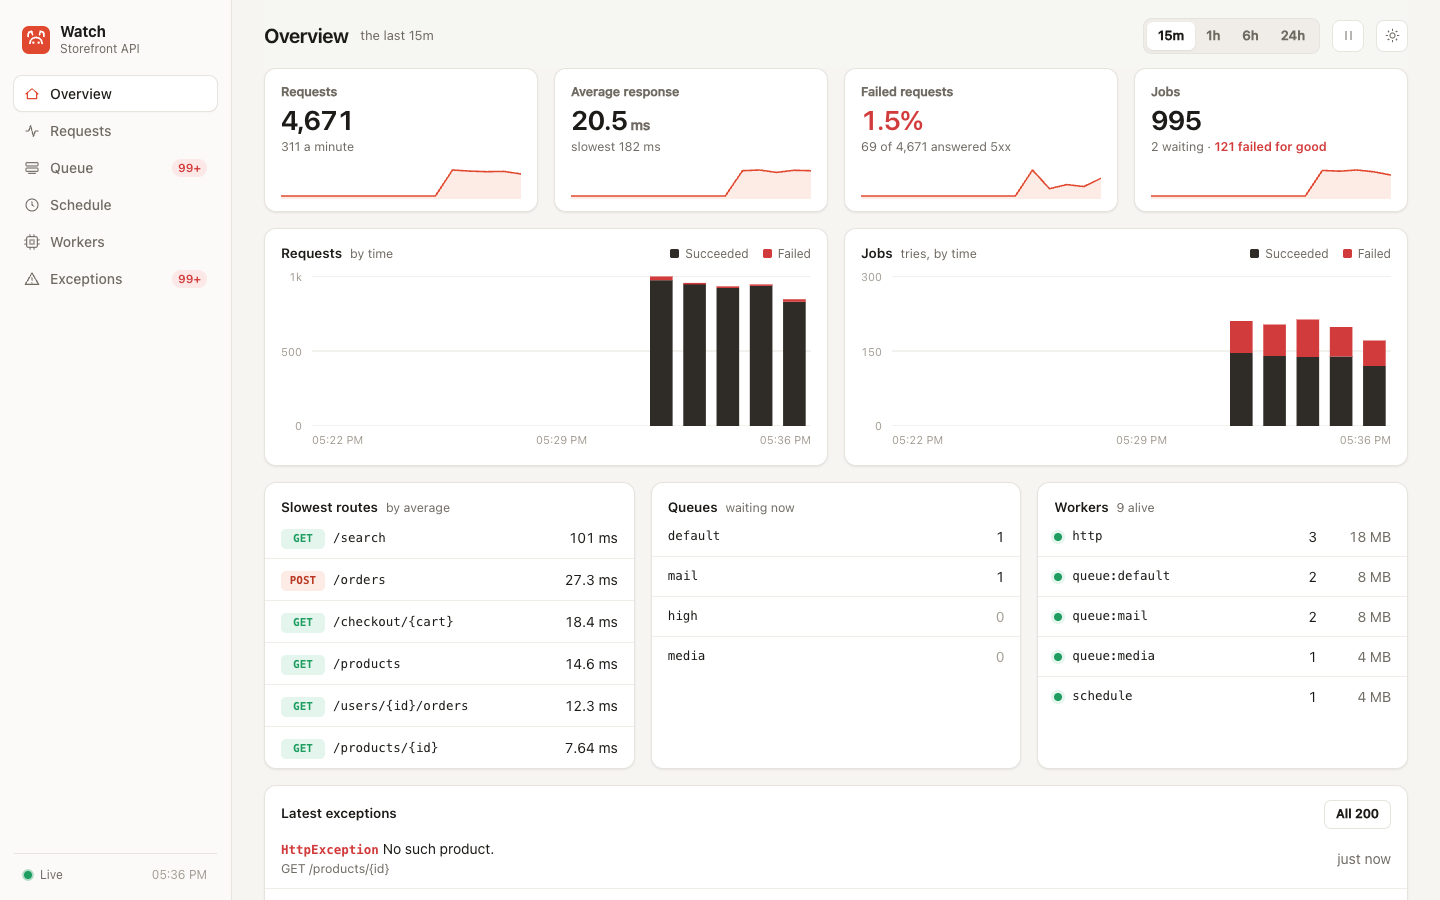
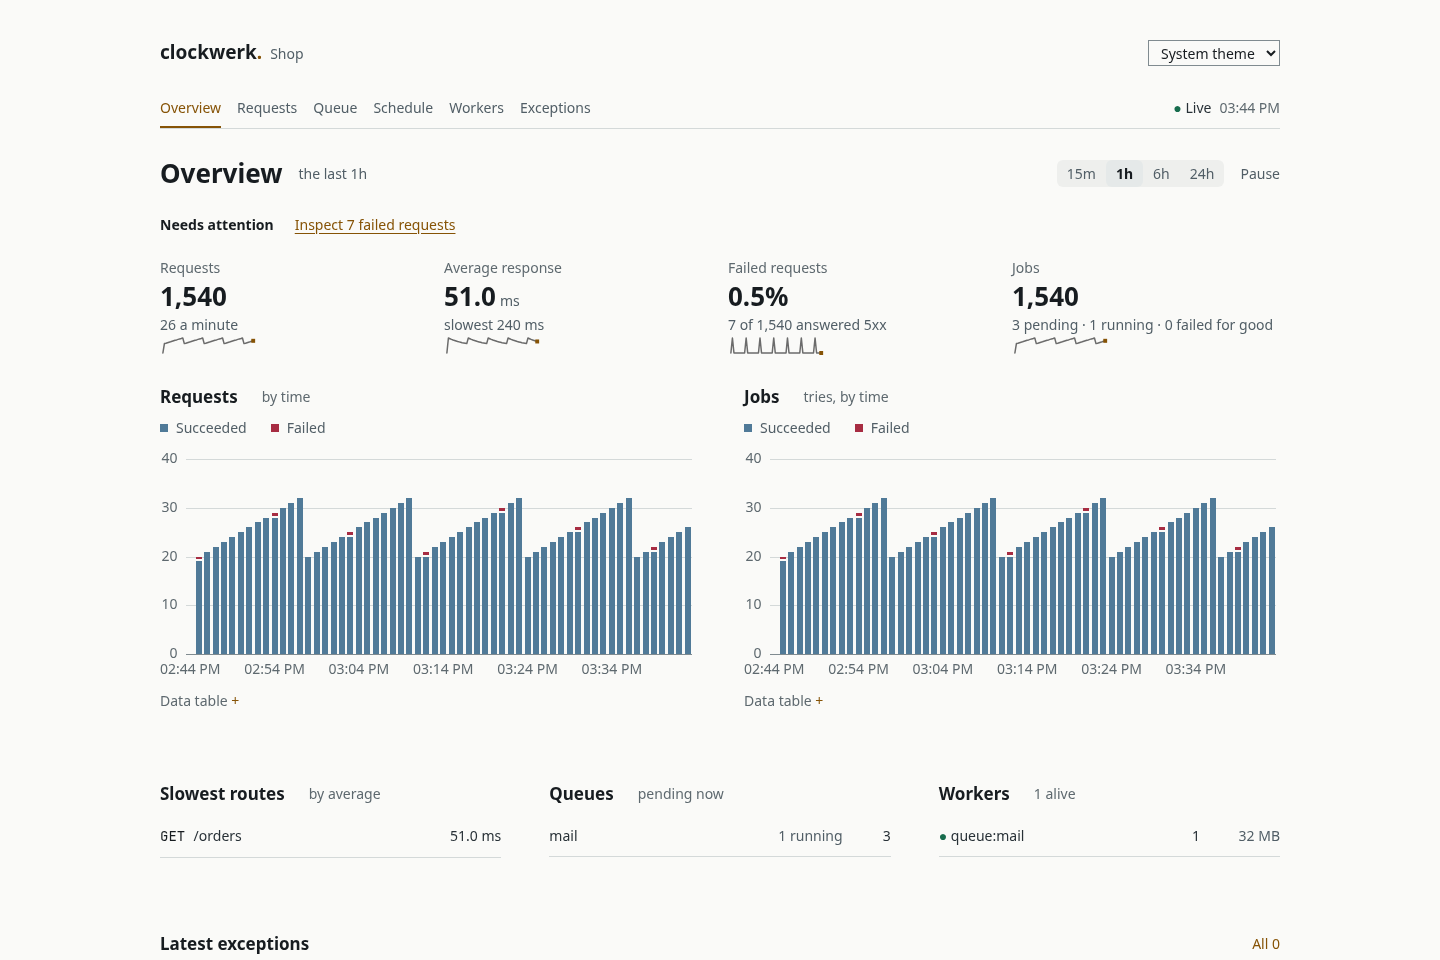
Center the dashboard and surface actionable failures in light and dark themes

diff --git a/resources/dashboard.html b/resources/dashboard.html
@@ -911,6 +911,34 @@ tr.detail pre { margin: 0; white-space: pre-wrap; overflow-wrap: anywhere; }
   .dashboard-panel > .toolbar .panel-actions { margin-left: 0; width: 100%; }
   tr.detail pre { margin-inline: 0; padding-inline: 1ch; }
 }
+/* Clockwerk's workspace: navigation above the data, one centered reading axis. */
+:root { --font: system-ui, sans-serif; --size: 14px; --chart-1: #729bbb; --chart-2: var(--danger); }
+:root[data-theme="light"] {
+  color-scheme: light; --bg: #fafaf8; --strong: #171c20; --text: #283137; --muted: #515e66; --faint: #5e696f;
+  --surface: #eeefed; --surface-hover: #e5e9e9; --line: #d4d9d9; --line-strong: #808b90; --amber: #865306;
+  --ok: #176c4d; --warn: #875313; --danger: #a72c42; --info: #286085; --chart-1: #507a98;
+}
+.shell.wide { display: block; max-width: var(--wide); }
+.site-header { align-items: center; margin-bottom: var(--lh); }
+.wordmark { font-size: 19px; } .wordmark small { font-size: 14px; }
+h1,h2 { text-transform: none; } h1 { font-size: 26px; line-height: 1.25; } h2 { font-size: 17px; }
+h1::before,h2::before,button::before,button::after,.button::before,.button::after { content: none; }
+code,pre,.method { font-family: 'JetBrains Mono', monospace; }
+.dashboard-nav { display: flex; flex-wrap: wrap; align-items: center; justify-content: space-between; gap: 0 2ch; margin-bottom: 28px; border-bottom: 1px solid var(--line); }
+.dashboard-nav ul { display: flex; flex-wrap: wrap; gap: 0 2ch; list-style: none; margin: 0; padding: 0; }
+.dashboard-nav a { padding-block: 10px; } .dashboard-nav a[aria-current] { box-shadow: inset 0 -2px var(--amber); }
+.dashboard-nav.nav-list a[aria-current] > :first-child::before { content: none; }
+.dashboard-nav .live { margin: 0; } .dashboard-top { margin-bottom: 24px; }
+.segmented { gap: 0; background: var(--surface); border-radius: 6px; }
+.segmented button { padding-inline: 10px; border-radius: inherit; } .segmented button[aria-pressed=true] { background: var(--surface-hover); color: var(--strong); }
+.dashboard-stats { display: grid; grid-template-columns: repeat(4,minmax(0,1fr)); gap: 16px; }
+.dashboard-stats .stat { min-width: 0; padding: 0; margin: 0; border: 0; } .stat dd { font-size: 26px; line-height: 1.4; font-variant-numeric: tabular-nums; } .stat dd small { font-size: 14px; }
+.section { margin-top: 30px; } .dashboard-panel .toolbar { margin-bottom: 10px; }
+th,td { border-width: 0 0 1px; } .error-count { color: var(--danger); }
+@media (min-width: 960px) { .queue-capacity:has(> :nth-child(2)) { grid-template-columns: minmax(0, 2.5fr) minmax(0, 1fr); } }
+.attention { display: flex; flex-wrap: wrap; gap: .5em 1.5em; margin-bottom: 22px; } .attention a { text-decoration: underline; text-underline-offset: 3px; }
+.gate { margin-inline: auto; } .page.wide:has(.gate) { max-width: 48ch; }
+@media (max-width: 700px) { .dashboard-stats { grid-template-columns: repeat(2,minmax(0,1fr)); } .dashboard-nav { display: block; } .dashboard-nav .live { padding-block: 4px; } .dashboard-nav ul { flex-wrap: nowrap; overflow-x: auto; } }
 </style>
 </head>
 <body>
@@ -1173,6 +1201,13 @@ const store = {
     get(key, fallback) { try { return JSON.parse(localStorage.getItem('clockwerk.' + key)) ?? fallback; } catch { return fallback; } },
     set(key, value) { try { localStorage.setItem('clockwerk.' + key, JSON.stringify(value)); } catch {} },
 };
+const scheme = window.matchMedia?.('(prefers-color-scheme: dark)');
+let preference = store.get('theme', 'system');
+const applyTheme = () => { document.documentElement.dataset.theme = preference === 'system' ? (scheme?.matches ? 'dark' : 'light') : preference; };
+applyTheme();
+scheme?.addEventListener('change', applyTheme);
+const themeControl = () => `<select aria-label="Color theme" data-theme-choice style="width:auto;appearance:auto;background-image:none;padding-inline:8px">${['system','light','dark'].map(t => `<option value="${t}" ${preference === t ? 'selected' : ''}>${{system:'System theme',light:'Light theme',dark:'Dark theme'}[t]}</option>`).join('')}</select>`;
+document.addEventListener('change', e => { if (e.target.matches('[data-theme-choice]')) { preference = e.target.value; store.set('theme', preference); applyTheme(); } });
 const ui = {
     page: 'overview',
     minutes: store.get('minutes', 60),
@@ -1347,7 +1382,13 @@ function overview(s) {
     const slowest = sorted(s.requests.rows.filter((r) => r.runs > 0), ['avg_ms', -1]).slice(0, 6);
     const groups = Object.create(null);
     for (const worker of s.workers) { (groups[worker.group_name] ??= []).push(worker); }
-    return `<div class="stats dashboard-stats">
+    const issues = [
+        !s.workers.length && '<a href="#workers">Check missing workers</a>',
+        s.jobs.failed_total > 0 && `<a href="#queue/failed">Review ${int(s.jobs.failed_total)}${s.jobs.failed_more ? '+' : ''} failed jobs</a>`,
+        s.requests.errors > 0 && `<a href="#requests">Inspect ${int(s.requests.errors)} failed requests</a>`,
+        s.exceptions.length > 0 && '<a href="#exceptions">Inspect latest exceptions</a>',
+    ].filter(Boolean);
+    return `${issues.length ? `<div class="attention"><strong>Needs attention</strong>${issues.join('')}</div>` : ''}<div class="stats dashboard-stats">
         ${stat('Requests', int(s.requests.total), `${(s.requests.total / s.minutes).toFixed(s.requests.total / s.minutes < 10 ? 1 : 0)} a minute`, spark(req, (d) => d.runs))}
         ${stat('Average response', s.requests.total ? ms(s.requests.avg_ms).replace(/ (\w+)$/, '<small>$1</small>') : '–', s.requests.total ? `slowest ${ms(s.requests.max_ms)}` : 'no requests yet', spark(req, (d) => d.runs ? d.total_ms / d.runs : 0))}
         ${stat('Failed requests', `<span class="${errorRate >= 1 ? 'error-count' : ''}">${pctText(errorRate)}</span>`, `${int(s.requests.errors)} of ${int(s.requests.total)} answered 5xx`, spark(req, (d) => d.errors))}
@@ -1491,7 +1532,7 @@ function queue(s) {
         <a href="#queue/recent">${stat('Completed', int(completed), `${(completed / s.minutes).toFixed(completed / s.minutes < 10 ? 1 : 0)}/min`)}</a>
         <a href="#queue/failed">${stat('Failed', `<span class="${counts.failed ? 'error-count' : ''}">${int(counts.failed)}${s.jobs.failed_more ? '+' : ''}</span>`, sum('retried') ? `${int(sum('retried'))} retried` : '')}</a>
     </div>
-    <div class="cols dashboard-two section">
+    <div class="cols dashboard-two section queue-capacity">
         ${card('Queues', '', `<div class="table-wrap"><table class="hover"><thead><tr><th>Queue</th><th class="num">Pending</th><th class="num">Processing</th><th class="num">Delayed</th><th class="num">Completed</th><th class="num">Failed</th><th class="num" title="How long the oldest pending job has waited">Wait</th><th class="num">Workers</th></tr></thead><tbody>${queueRows}</tbody></table></div>`)}
         ${supervisors ? card('Supervisors', '', `<ul class="dashboard-list">${supervisors}</ul>`) : ''}
     </div>
@@ -1536,7 +1577,7 @@ function gate() {
     const content = ui.closed
         ? `<h2>The dashboard is closed</h2><p class="muted">${esc(ui.error).replace(/\n+/g, '<br>')}</p>`
         : `<h2>The dashboard needs its token</h2><p class="muted">It is the secret in <code>clockwerk.token</code>.${token ? ' The one this tab has was not accepted.' : ''}</p><form data-token><div class="field"><label for="dashboard-token">Token</label><input id="dashboard-token" type="password" autocomplete="off" autofocus></div><button class="solid">Open</button></form>`;
-    return `<a class="skip-link" href="#main">Skip to content</a><div class="page wide"><header class="site-header"><span class="wordmark">clockwerk<span>.</span></span></header><main id="main"><h1>Clockwerk</h1><section class="gate">${content}</section></main></div>`;
+    return `<a class="skip-link" href="#main">Skip to content</a><div class="page wide"><header class="site-header"><span class="wordmark">clockwerk<span>.</span></span>${themeControl()}</header><main id="main"><h1>Clockwerk</h1><section class="gate">${content}</section></main></div>`;
 }
 
 const more = (list, total) => total > ui.shown[list] ? `<div class="more"><button data-more="${list}">Show ${Math.min(25, total - ui.shown[list])} more</button> <span class="muted">${ui.shown[list]} of ${total} shown</span></div>` : '';
@@ -1552,15 +1593,12 @@ function render() {
     const counts = { queue: s.jobs.failed_total, exceptions: s.exceptions.length };
     const [, title] = pages.find(([id]) => id === ui.page);
     const keep = document.activeElement?.matches?.('[data-filter]') ? [document.activeElement.selectionStart, document.activeElement.selectionEnd] : null;
-    const menuOpen = document.querySelector('.dashboard-nav')?.open ?? true;
     const scroll = window.scrollY;
     app.innerHTML = `<a class="skip-link" href="#main">Skip to content</a><div class="shell wide">
-        <header class="site-header"><a class="wordmark" href="#overview">clockwerk<span>.</span><small title="${esc(s.app)}">${esc(s.app)}</small></a></header>
-        <details class="shell-nav dashboard-nav" ${menuOpen ? 'open' : ''}>
-            <summary>Dashboard menu</summary>
-            <nav class="nav-list" aria-label="Dashboard"><ul>${pages.map(([id, label]) => `<li><a href="#${id}" ${id === ui.page ? 'aria-current="page"' : ''}><span>${label}</span>${counts[id] ? `<span class="count">${counts[id] > 99 ? '99+' : counts[id]}</span>` : ''}</a></li>`).join('')}</ul></nav>
+        <header class="site-header"><a class="wordmark" href="#overview">clockwerk<span>.</span><small title="${esc(s.app)}">${esc(s.app)}</small></a>${themeControl()}</header>
+        <nav class="dashboard-nav nav-list" aria-label="Dashboard"><ul>${pages.map(([id, label]) => `<li><a href="#${id}" ${id === ui.page ? 'aria-current="page"' : ''}><span>${label}</span>${counts[id] ? `<span class="count">${counts[id] > 99 ? '99+' : counts[id]}</span>` : ''}</a></li>`).join('')}</ul>
             <div class="live"><span class="badge ${ui.error ? 'danger' : ui.paused ? 'warn' : 'ok'}">${ui.error ? 'Not reachable' : ui.paused ? 'Paused' : 'Live'}</span><span class="when faint">${clock(s.now)}</span></div>
-        </details>
+        </nav>
         <main id="main" class="shell-main">
             <div class="toolbar dashboard-top"><h1>${title}</h1><span class="muted">the last ${ranges.find(([m]) => m === s.minutes)?.[1] ?? s.minutes + 'm'}</span>
                 <div class="segmented" role="group" aria-label="Time range">${ranges.map(([m, label]) => `<button data-range="${m}" aria-pressed="${m === ui.minutes}">${label}</button>`).join('')}</div>
@@ -1648,7 +1686,7 @@ route(true);
 refresh();
 // While the tab is in view and not paused; a chart being read is not redrawn under the pointer.
 setInterval(() => {
-    if (!refreshing && !ui.paused && !ui.gate && !document.hidden && !document.querySelector('.chart-plot:hover, .chart:focus-within') && !ui.busy) { refresh(); }
+    if (!refreshing && !ui.paused && !ui.gate && !document.hidden && !document.querySelector('.chart-plot:hover, .chart:focus-within, [data-theme-choice]:focus') && !ui.busy) { refresh(); }
 }, 5000);
 })();
 </script>

diff --git a/CHANGELOG.md b/CHANGELOG.md
@@ -2,6 +2,11 @@
 
 Crab Clockwerk follows [semantic versioning](https://semver.org). Before 1.0, a minor version may break what an application writes; the entry says what to change.
 
+## 0.2.2 — 2026-11-23
+
+- Center the dashboard workspace with horizontal navigation, clearer metric and table typography, and links from overview warnings to the relevant detail pages.
+- Follow the system color scheme by default, or choose a persistent light or dark theme.
+
 ## 0.2.1 — 2026-11-12
 
 - Requires `crabphp/framework` ^0.7.1. The dashboard's middleware (`Gate`, `OwnPage`, `RecordRequests`) implement Crab's own `Middleware::handle(Request $request, Handler $next)`, now that the framework has dropped PSR-15.

diff --git a/AGENTS.md b/AGENTS.md
@@ -1,0 +1,3 @@
+# Rules
+
+- The Clockwerk UI must be designed for humans: feel normal (not all left-aligned terminal-style), support light and dark themes, make data easy to scan, and help users make decisions.
